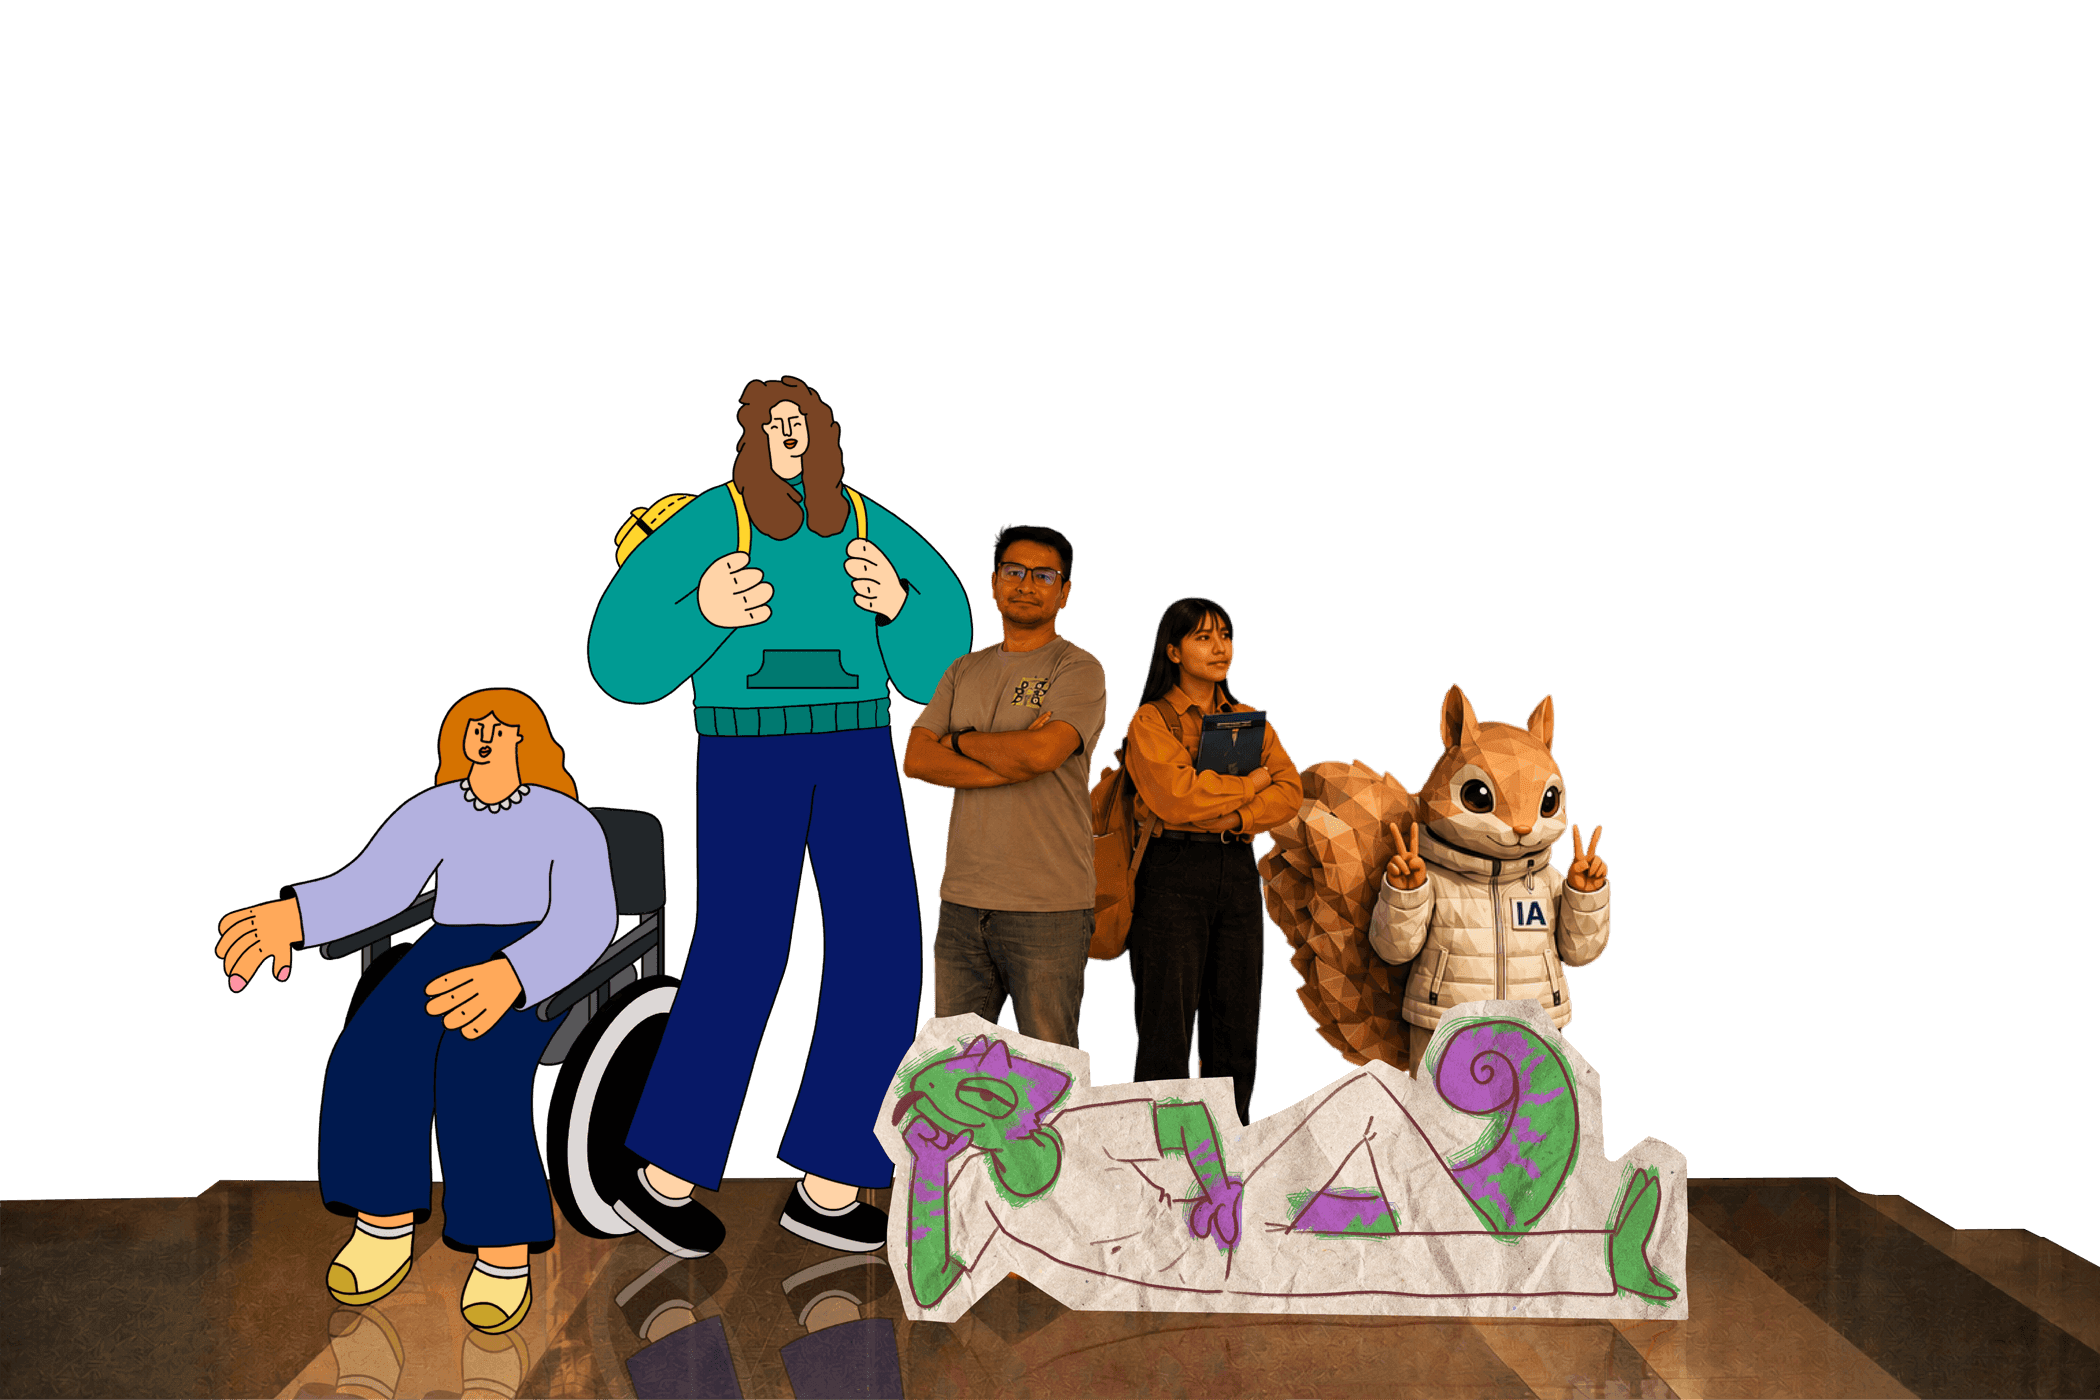
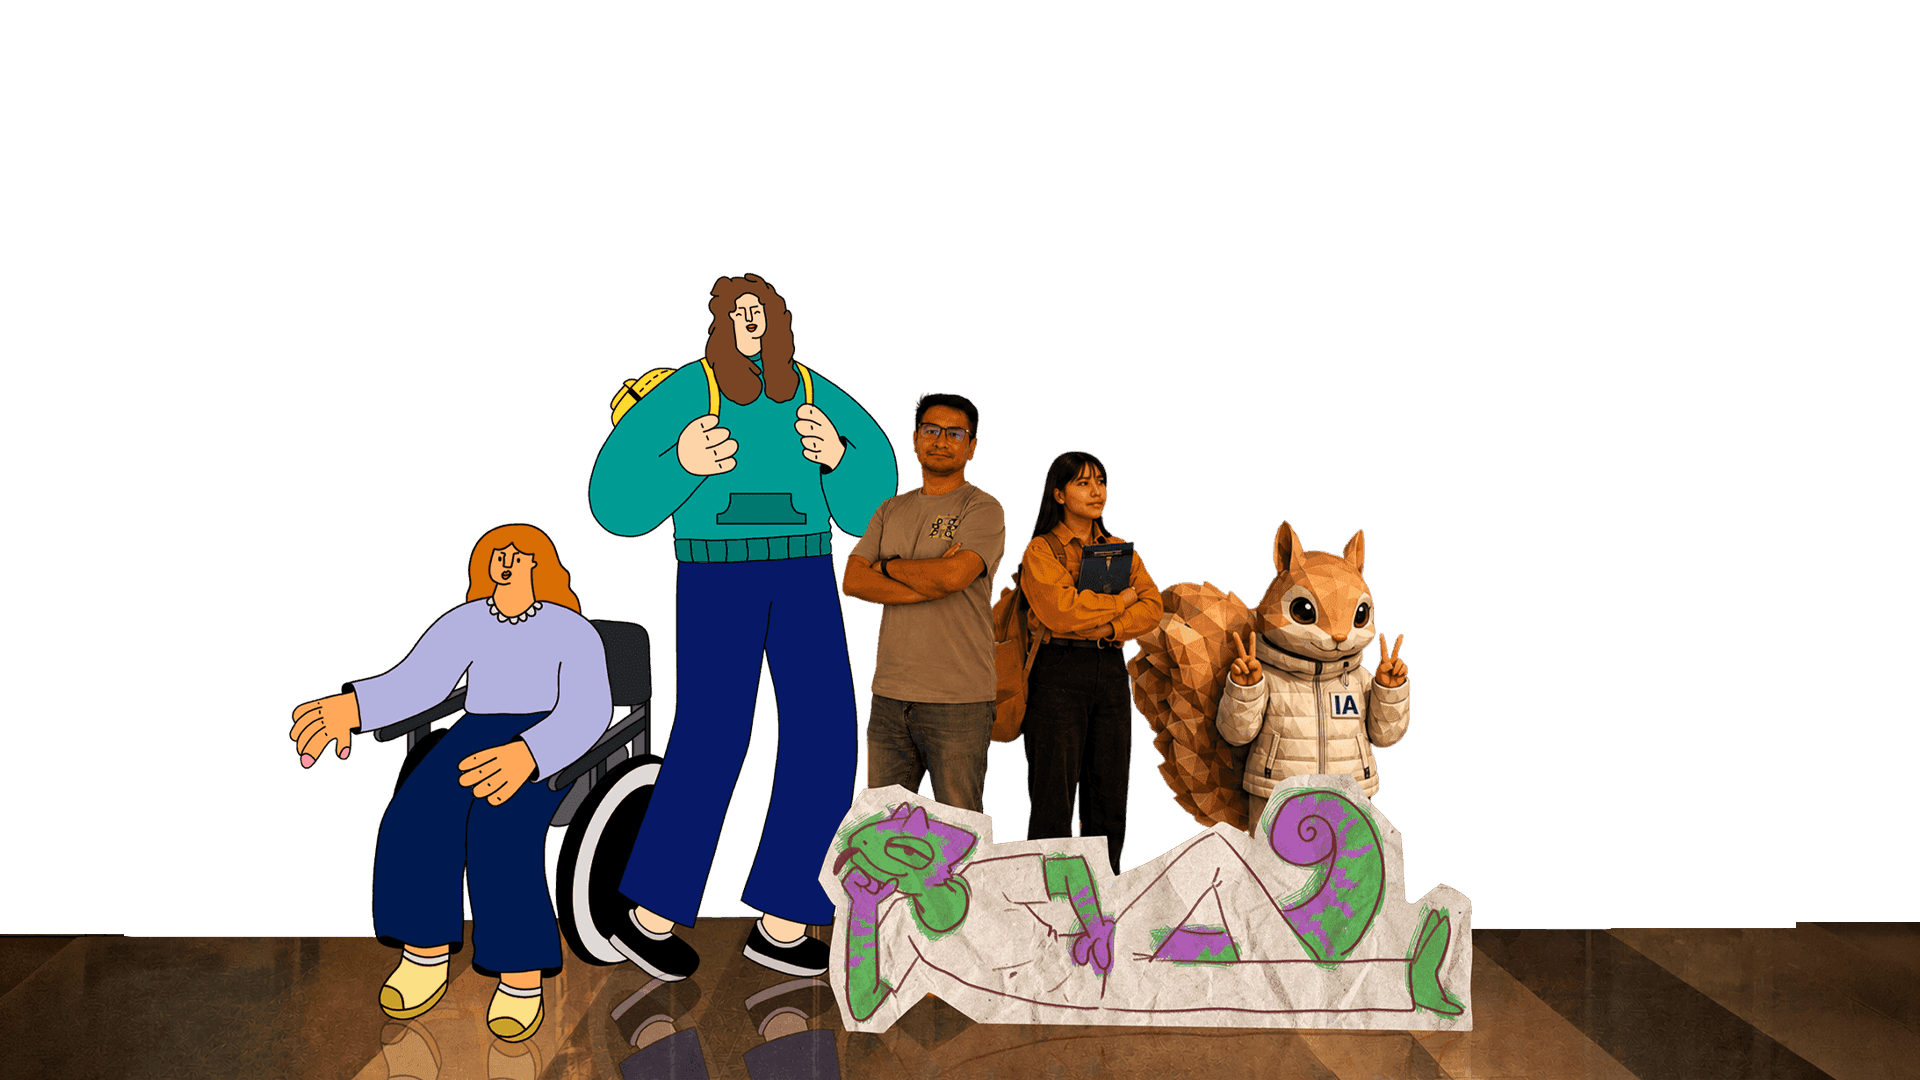
Actualizar y optimizar imagen superficial del parallax del home en la Web con cache-busting

Changed region(s): [[0.0, 0.2444, 1.0, 1.0]]

diff --git a/index.html b/index.html
@@ -49,12 +49,12 @@
         <div class="parallax-stage">
           <div class="parallax-bg hero-background" role="img" aria-label="Bienvenida a Diseño Gráfico"></div>
           <picture>
-            <source media="(max-width: 768px)" type="image/webp" srcset="assets/images/movil/home-characters.webp" />
-            <source media="(max-width: 768px)" srcset="assets/images/movil/home-characters.png" />
-            <source type="image/webp" srcset="assets/images/desktop/home-characters.webp" />
+            <source media="(max-width: 768px)" type="image/webp" srcset="assets/images/movil/home-characters.webp?v=3" />
+            <source media="(max-width: 768px)" srcset="assets/images/movil/home-characters.png?v=3" />
+            <source type="image/webp" srcset="assets/images/desktop/home-characters.webp?v=3" />
             <img
             class="parallax-characters hero-character"
-            src="assets/images/desktop/home-characters.png"
+            src="assets/images/desktop/home-characters.png?v=3"
             alt="Personaje ilustrado trabajando en una tableta gráfica"
           />
           </picture>
